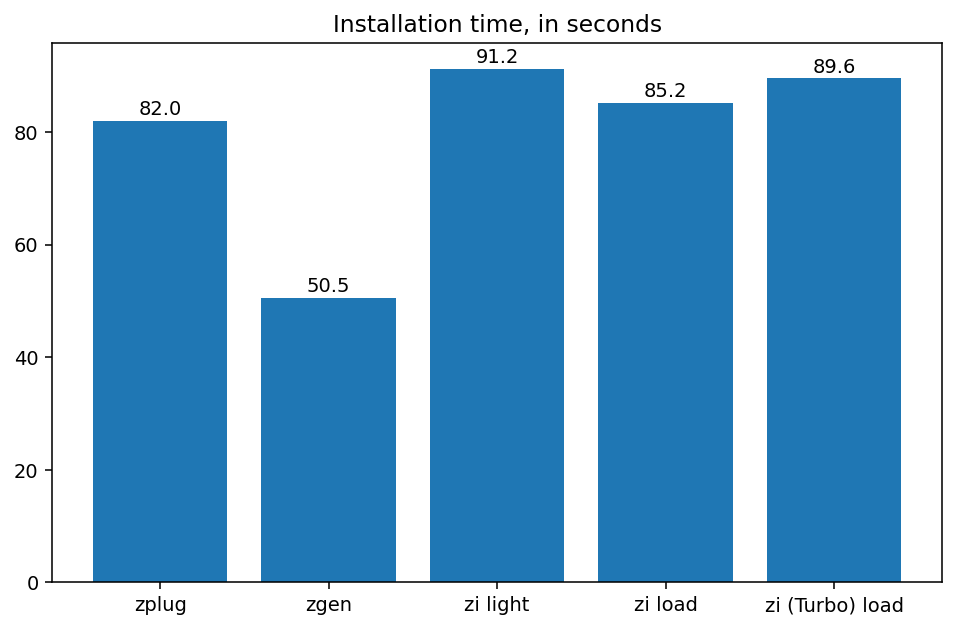
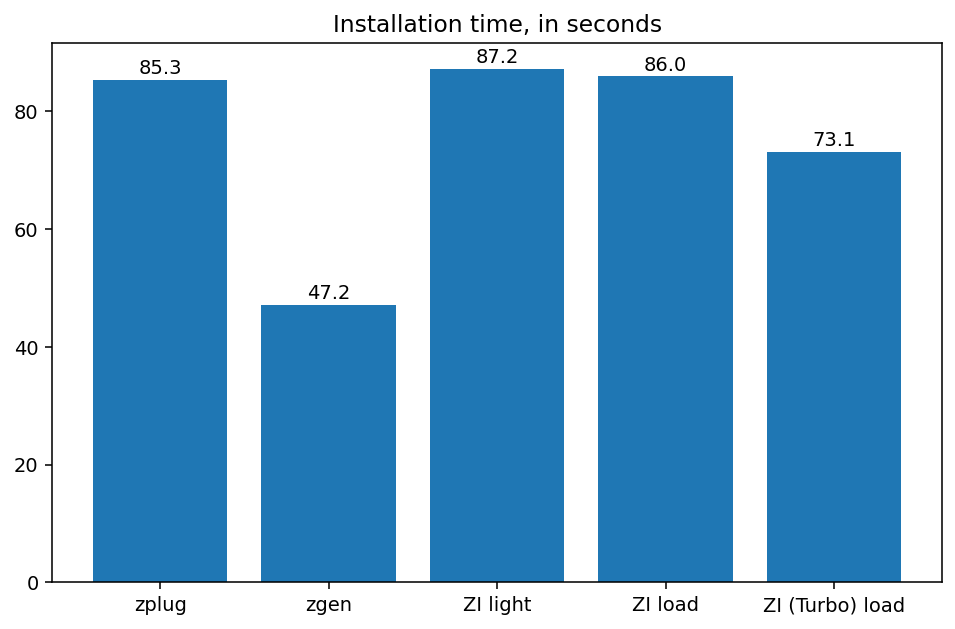
new file:   fpath.sh 	modified:   plot.py   modified:   plots/installation-times.png 	modified:   plots/startup-times.png 	modified:   run.zsh 	modified:   zi-light/.zshrc 	modified:   zi-load/.zshrc 	modified:   zi-omz/.zshrc 	modified:   zi-turbo/.zshrc

diff --git a/plot.py b/plot.py
@@ -15,15 +15,15 @@ def autolabel(rects):
 titles = {
   "results/zplug-inst.txt": "zplug",
   "results/zgen-inst.txt": "zgen",
-  "results/zi-light-inst.txt": "zi light",
-  "results/zi-load-inst.txt": "zi load",
-  "results/zi-turbo-inst.txt": "zi (Turbo) load",
+  "results/zi-light-inst.txt": "ZI light",
+  "results/zi-load-inst.txt": "ZI load",
+  "results/zi-turbo-inst.txt": "ZI (Turbo) load",
 
   "results/zplug.txt": "zplug",
   "results/zgen.txt": "zgen",
-  "results/zi-light.txt": "zi light",
-  "results/zi-load.txt": "zi load",
-  "results/zi-turbo.txt": "zi (Turbo) load",
+  "results/zi-light.txt": "ZI light",
+  "results/zi-load.txt": "ZI load",
+  "results/zi-turbo.txt": "ZI (Turbo) load",
 }
 
 files_inst = [
